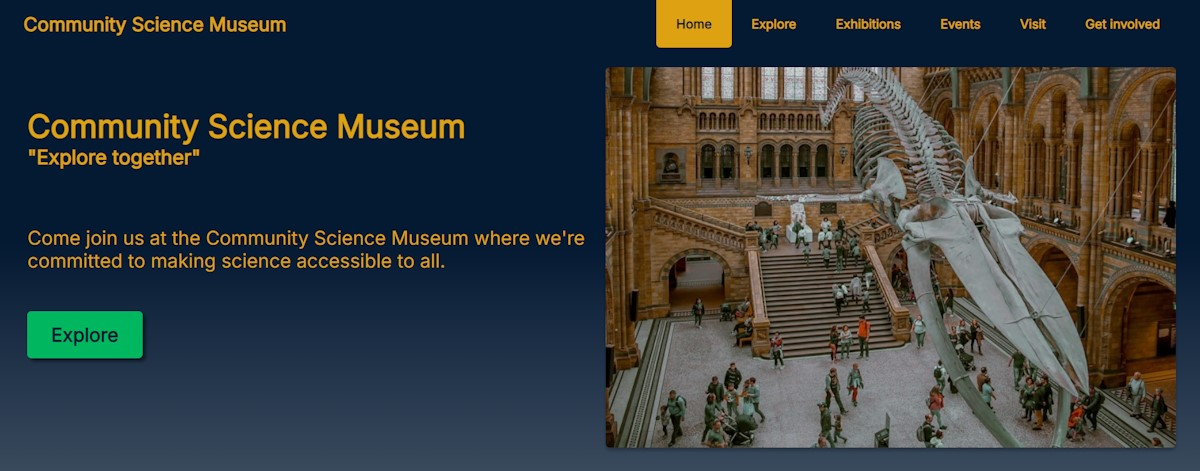
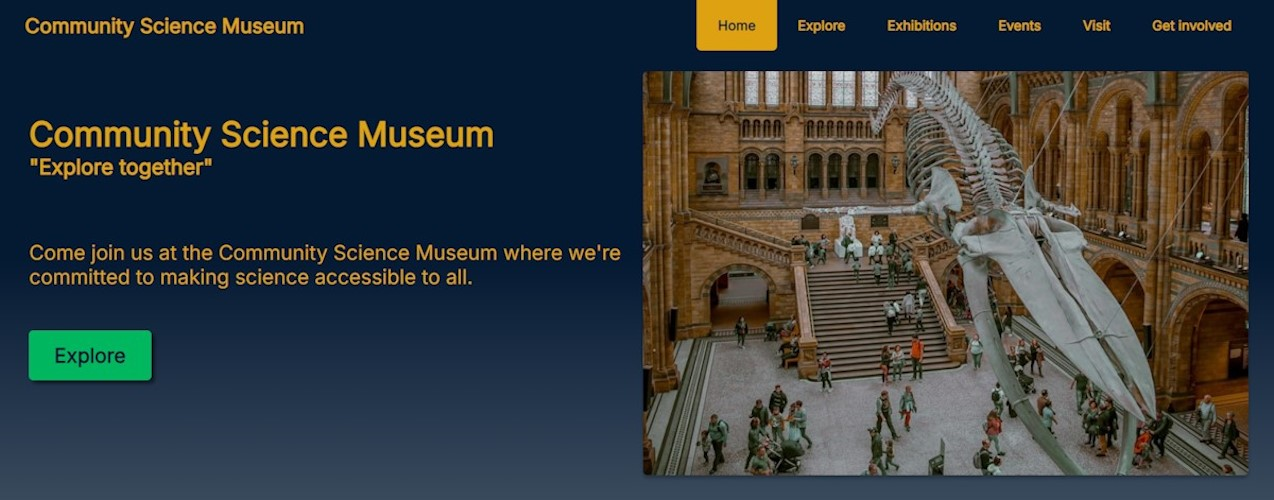
Add content and styling

diff --git a/index.html b/index.html
@@ -45,7 +45,7 @@
               <div class="hero-content">
                 <div class="hero-group">
                   <h1 class="page-title">Hi! I'm Andreas</h1>
-                  <p>Front-end development student at Noroff.</p>
+                  <p>Front-end development student at Noroff Vocational School.</p>
                 </div>
                 <a href="#contact" class="primary-button">Contact me</a>
               </div>
@@ -56,21 +56,29 @@
           </div>
         </div>
       </section>
-      <section id="about" class="light-bg">
+      <section id="about" class="light-bg decorated-left">
         <div class="content-wrapper">
           <h2 class="section-title">About me</h2>
           <div class="section-content">
             <p>
-              I am currently a student at the <span class="highlight-text">Front-end development</span> program at Noroff School of technology and digital media. Before starting at Noroff I have been
-              creating multiple websites as a hobby, in which I have acquired more knowledge and about programming. I am a <span class="highlight-text">happy person</span> that thrives working both
-              individually and in groups. I also find <span class="highlight-text">good challenges fun</span>, as these are excellent opportunities to
-              <span class="highlight-text">try different approaches</span> to problems and learn more. Learning about and <span class="highlight-text">trying out new technologies</span> is something I
-              find exciting, and I always work to find the best possible approach on my work.
+              Hello! I'm a proud resident of Sarpsborg, practically waving to my neighbors in Sweden from my window. I've swapped out my electrician's tools for textbooks and chalk, and now I'm
+              currently shaping young minds as a teacher (okay, maybe whiteboard markers are more popular to use these days and the textbooks have turned digital). My toolkit includes nature science,
+              math and music - because who doesn't want to balance equations <em>and</em> play a beautiful piano melody?
+            </p>
+            <p>
+              When I'm not teaching, I'm studying <span class="highlight-text">Front-end development</span> at Noroff Vocational School. Basically, I'm learning how to make the internet look
+              <span class="highlight-text">pretty... and functional</span>. So far, I've built 3 websites as student projects. My side projects are usually larger projects because hey, what's better
+              than a <span class="highlight-text">good challenge</span> that allows you to learn and feed your knowledge? Whether it's a classrom, a website, or some DIY adventure, I'm all about
+              <span class="highlight-text">creating</span>, <span class="highlight-text">learning</span>, and coming up with <span class="highlight-text">new solutions</span> to keep things exciting.
+            </p>
+            <p>
+              I'm also a master of <span class="highlight-text">solo missions</span> and <span class="highlight-text">teamwork</span> - so whether you need someone to solve a problem or just someone
+              to listen to your "nest big idea", <span class="highlight-text">I'm your guy!</span>
             </p>
           </div>
         </div>
       </section>
-      <section id="skills">
+      <section id="skills" class="decorated-right">
         <div class="content-wrapper">
           <h2 class="section-title">Skills</h2>
           <div class="section-content">
@@ -101,11 +109,15 @@
                 <div class="card-icon"><i class="fa fa-database"></i></div>
                 <div class="card-title">MySQL</div>
               </div>
+              <div class="card">
+                <div class="card-icon"><i class="fa-brands fa-figma"></i></div>
+                <div class="card-title">Figma</div>
+              </div>
             </div>
           </div>
         </div>
       </section>
-      <section id="projects" class="dark-bg">
+      <section id="projects" class="dark-bg decorated-left decorated-right">
         <div class="content-wrapper">
           <h2 class="section-title">Projects</h2>
           <div class="section-content">
@@ -116,13 +128,19 @@
                 </div>
                 <div class="banner-description">
                   <h3 class="banner-title">The Guinea Pigs</h3>
+                  <p class="decorated">
+                    This is my exam project at Noroff Vocational School. The goal of this project was to demonstrate the skills learned over my first year of studies. I was tasked with creating a blog
+                    with a responsive design. The blog should contain at least a home page, an about page, a page with list of blog posts, a post specific page and a contact page. The contact form
+                    should have a form validation done in JavaScript. The blog's content should be stored on WordPress, installed as a headless CMS, and fetched via the WordPress REST API. The post
+                    specific page had to be able to dynamycally display all posts based on their post ID.
+                  </p>
                   <p>
-                    I am writing this text so that I can see how this element looks with a little content. If I didn't write this, then I wouldn't be able to see how it would look with content. That
-                    would be very sad and boring.
+                    For this project I used HTML, CSS and JavaScript to create the Website. The site should consider WCAG principles and meta tags to improve SEO. GitHub is used for version control
+                    and the site is deployed to Netlify. The project also required to install Hotjar for user testing, and a report documenting the choices and process along the way.
                   </p>
                   <div class="banner-buttons">
-                    <a href="https://github.com/Noroff-FEU-Assignments/project-exam-1-Andy19955" target="_blank" class="primary-button">GitHub Repo</a>
-                    <a href="https://theguineapigs.netlify.app/" class="primary-button">Live Website</a>
+                    <a href="https://github.com/Noroff-FEU-Assignments/project-exam-1-Andy19955" target="_blank" class="primary-button">GitHub</a>
+                    <a href="https://theguineapigs.netlify.app/" class="primary-button">Website</a>
                   </div>
                 </div>
               </div>
@@ -132,13 +150,20 @@
                 </div>
                 <div class="banner-description">
                   <h3 class="banner-title">RainyDays</h3>
+                  <p class="decorated">
+                    This project has been used in multiple study modules at Noroff Vocational School, and has been developed more and more. The last module it was used in, Content Management Systems,
+                    it should end up as a responsive website displaying different products. The products should be stored in WordPress, installed as a headless CMS, with the WooCommerce plugin
+                    installed. By using the WooCommerce API, the product's data should be fetched with JavaScript. The page had to have at least 5 products stored in WooCommerce. The JavaScript should
+                    have the functinality to fetch a single product's data and render a grid of product data. There should be one product specific page that should have the ability to dynamically
+                    display all products based on their product ID.
+                  </p>
                   <p>
-                    I am writing this text so that I can see how this element looks with a little content. If I didn't write this, then I wouldn't be able to see how it would look with content. That
-                    would be very sad and boring.
+                    For this project I used HTML, CSS and JavaScript to create the Website. The site should consider WCAG principles and meta tags to improve SEO. GitHub is used for version control
+                    and the site is deployed to Netlify.
                   </p>
                   <div class="banner-buttons">
-                    <a href="https://github.com/Andy19955/Content-Management-System" target="_blank" class="primary-button">GitHub Repo</a>
-                    <a href="https://content-management-system.netlify.app/" target="_blank" class="primary-button">Live Website</a>
+                    <a href="https://github.com/Andy19955/Content-Management-System" target="_blank" class="primary-button">GitHub</a>
+                    <a href="https://content-management-system.netlify.app/" target="_blank" class="primary-button">Website</a>
                   </div>
                 </div>
               </div>
@@ -148,13 +173,19 @@
                 </div>
                 <div class="banner-description">
                   <h3 class="banner-title">Community Science Museum</h3>
+                  <p class="decorated">
+                    This is my first semester project at Noroff Vocational School. The goal of this project was to demonstrate the skills learned over my first semester of studies. These skills
+                    included design principles, project management, communication technology and development with HTML/CSS. The target audience for this project was set to primary and middle school
+                    children (ages 7-15) and families with young children. The website should be responsive, informative, engaging and appealing to attract the target audience to visit the museum. For
+                    this project I was provided with media assets such as text and images.
+                  </p>
                   <p>
-                    I am writing this text so that I can see how this element looks with a little content. If I didn't write this, then I wouldn't be able to see how it would look with content. That
-                    would be very sad and boring.
+                    For this project I used HTML and CSS to create the website. The site should consider WCAG principles and meta tags to improve SEO. GitHub is used for version control and the site
+                    is deployed to Netlify. The project also required to write a report documenting the choices and process along the way.
                   </p>
                   <div class="banner-buttons">
-                    <a href="https://github.com/Andy19955/Semester-Project-1" target="_blank" class="primary-button">GitHub Repo</a>
-                    <a href="https://bespoke-cascaron-c49fa1.netlify.app/" target="_blank" class="primary-button">Live Website</a>
+                    <a href="https://github.com/Andy19955/Semester-Project-1" target="_blank" class="primary-button">GitHub</a>
+                    <a href="https://bespoke-cascaron-c49fa1.netlify.app/" target="_blank" class="primary-button">Website</a>
                   </div>
                 </div>
               </div>
@@ -162,12 +193,13 @@
           </div>
         </div>
       </section>
-      <section id="contact" class="light-bg">
+      <section id="contact" class="light-bg decorated-left decorated-right">
         <div class="content-wrapper">
           <h2 class="section-title">Contact me</h2>
           <div class="section-content card-wrapper">
-            <div class="pill"><i class="fa fa-envelope-o"></i> kontakt@andreasthune.no</div>
+            <a href="mailto:kontakt@andreasthune.no" class="pill"><i class="fa fa-envelope-o"></i> kontakt@andreasthune.no</a>
             <div class="pill"><i class="fa fa-phone"></i> (+47) 47 08 75 02</div>
+            <a href="https://github.com/Andy19955" class="pill" target="_blank"><i class="fa-brands fa-github"></i> Andy19955</a>
             <div class="pill"><i class="fa fa-location-dot"></i> Sarpsborg, Norway</div>
           </div>
         </div>

diff --git a/css/style.css b/css/style.css
@@ -32,6 +32,15 @@ a {
   text-decoration: none;
 }
 
+p {
+  margin-bottom: 25px;
+}
+
+p.decorated {
+  border-left: 3px solid var(--yellow-light);
+  padding-left: 10px;
+}
+
 header.main-header {
   height: 60px;
   padding: 0 20px;
@@ -88,6 +97,29 @@ header.main-header {
   color: var(--yellow-light);
 }
 
+section {
+  position: relative;
+}
+
+section.decorated-left:before,
+section.decorated-right:after {
+  content: "";
+  background: var(--yellow-dark);
+  position: absolute;
+  top: 0;
+  width: 30%;
+  height: 3px;
+  transform: translateY(-50%);
+}
+
+section.decorated-left:before {
+  left: 0;
+}
+
+section.decorated-right:after {
+  right: 0;
+}
+
 .content-wrapper {
   max-width: 1280px;
   padding: 40px 30px;
@@ -96,11 +128,14 @@ header.main-header {
 
 .page-title {
   color: var(--yellow-light);
+  font-size: 35px;
+  margin-bottom: 5px;
 }
 
 .section-title {
-  font-size: 20px;
+  font-size: 30px;
   font-weight: bold;
+  text-align: center;
 }
 
 .section-content {
@@ -130,6 +165,11 @@ header.main-header {
   gap: 20px;
 }
 
+.hero-content {
+  margin-bottom: 50px;
+  font-size: 18px;
+}
+
 .hero-image {
   max-width: 300px;
 }
@@ -148,7 +188,7 @@ header.main-header {
   display: flex;
   flex-wrap: wrap;
   justify-content: center;
-  gap: 20px;
+  gap: 30px;
 }
 
 .card,
@@ -182,23 +222,29 @@ header.main-header {
 }
 
 .banner {
+  max-width: 1000px;
   box-shadow: 4px 4px 8px rgba(0, 0, 0, 0.5);
+  border-bottom-right-radius: 50px;
 }
 
 .banner-image,
 .banner-image img {
   width: 100%;
-  height: 400px;
+}
+
+.banner-image {
+  max-height: 400px;
 }
 
 .banner-image img {
   object-fit: fill;
+  height: 100%;
 }
 
 .banner-title {
-  font-size: 18px;
+  font-size: 20px;
   font-weight: bold;
-  margin-bottom: 10px;
+  margin-bottom: 20px;
 }
 
 .banner-buttons {
@@ -206,7 +252,7 @@ header.main-header {
   flex-wrap: wrap;
   justify-content: space-evenly;
   gap: 20px;
-  padding: 30px 0 20px 0;
+  padding: 5px 0 20px 0;
 }
 
 .pill {
@@ -219,6 +265,10 @@ header.main-header {
   color: var(--yellow-light);
   border-radius: 5px;
   box-shadow: 4px 4px 8px rgba(0, 0, 0, 0.5);
+}
+
+.pill:hover {
+  box-shadow: none;
 }
 
 .pill i {
@@ -262,13 +312,43 @@ footer {
   .visible {
     display: block;
   }
+
+  .banner-title {
+    font-size: 18px;
+  }
+
+  .banner-image,
+  .banner-image img {
+    /* height: 300px; */
+  }
 }
 
 @media screen and (max-width: 767px) {
+  .banner-image,
+  .banner-image img {
+    /* height: 200px; */
+  }
+
+  .section-title {
+    font-size: 25px;
+  }
 }
 
 @media screen and (max-width: 544px) {
   .branding {
     font-size: 20px;
+  }
+
+  .banner {
+    border-bottom-right-radius: 10px;
+  }
+
+  .banner-image,
+  .banner-image img {
+    /* height: 150px; */
+  }
+
+  .banner-buttons .primary-button {
+    padding: 5px 10px;
   }
 }

diff --git a/css/variables.css b/css/variables.css
@@ -1,7 +1,7 @@
 :root {
-  --gray-darker: #31333b;
-  --gray-dark: #34353a;
-  --gray-light: #3d3e42;
+  --gray-darker: #2c2e35;
+  --gray-dark: #313236;
+  --gray-light: #46474b;
   --yellow-dark: #ac6d00;
   --yellow-light: #e2a336;
   --white: #ffffff;
